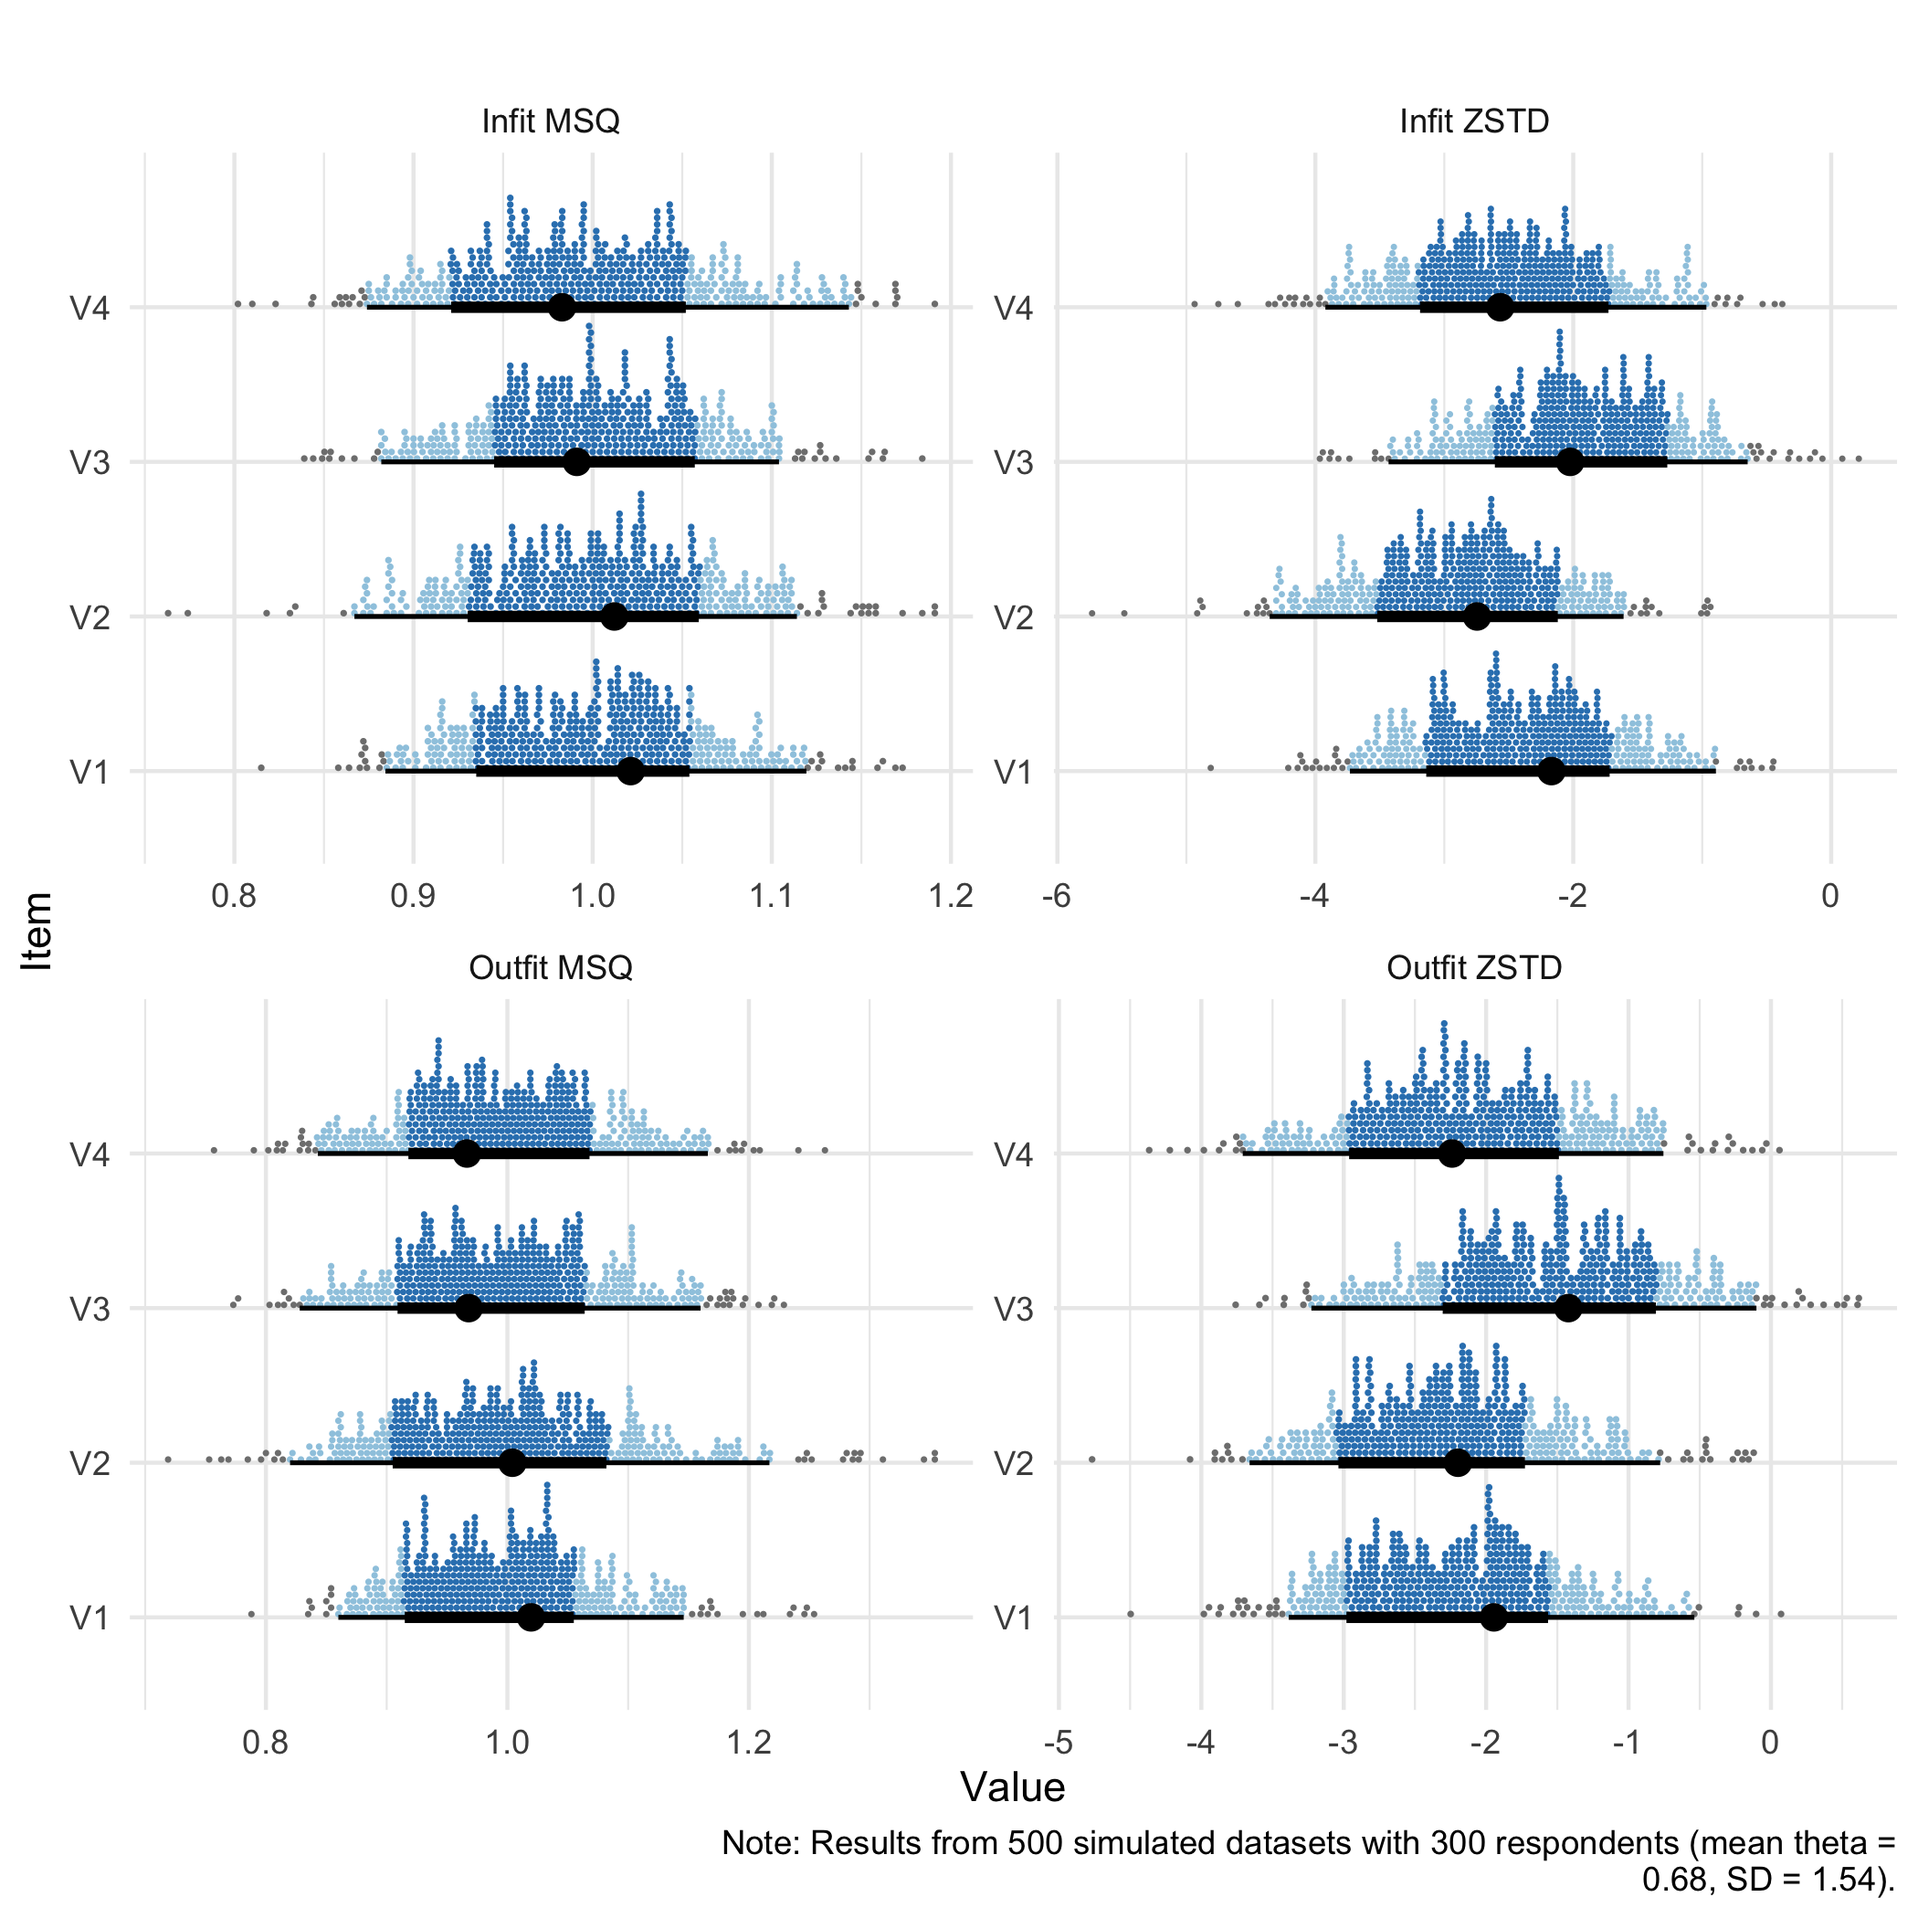
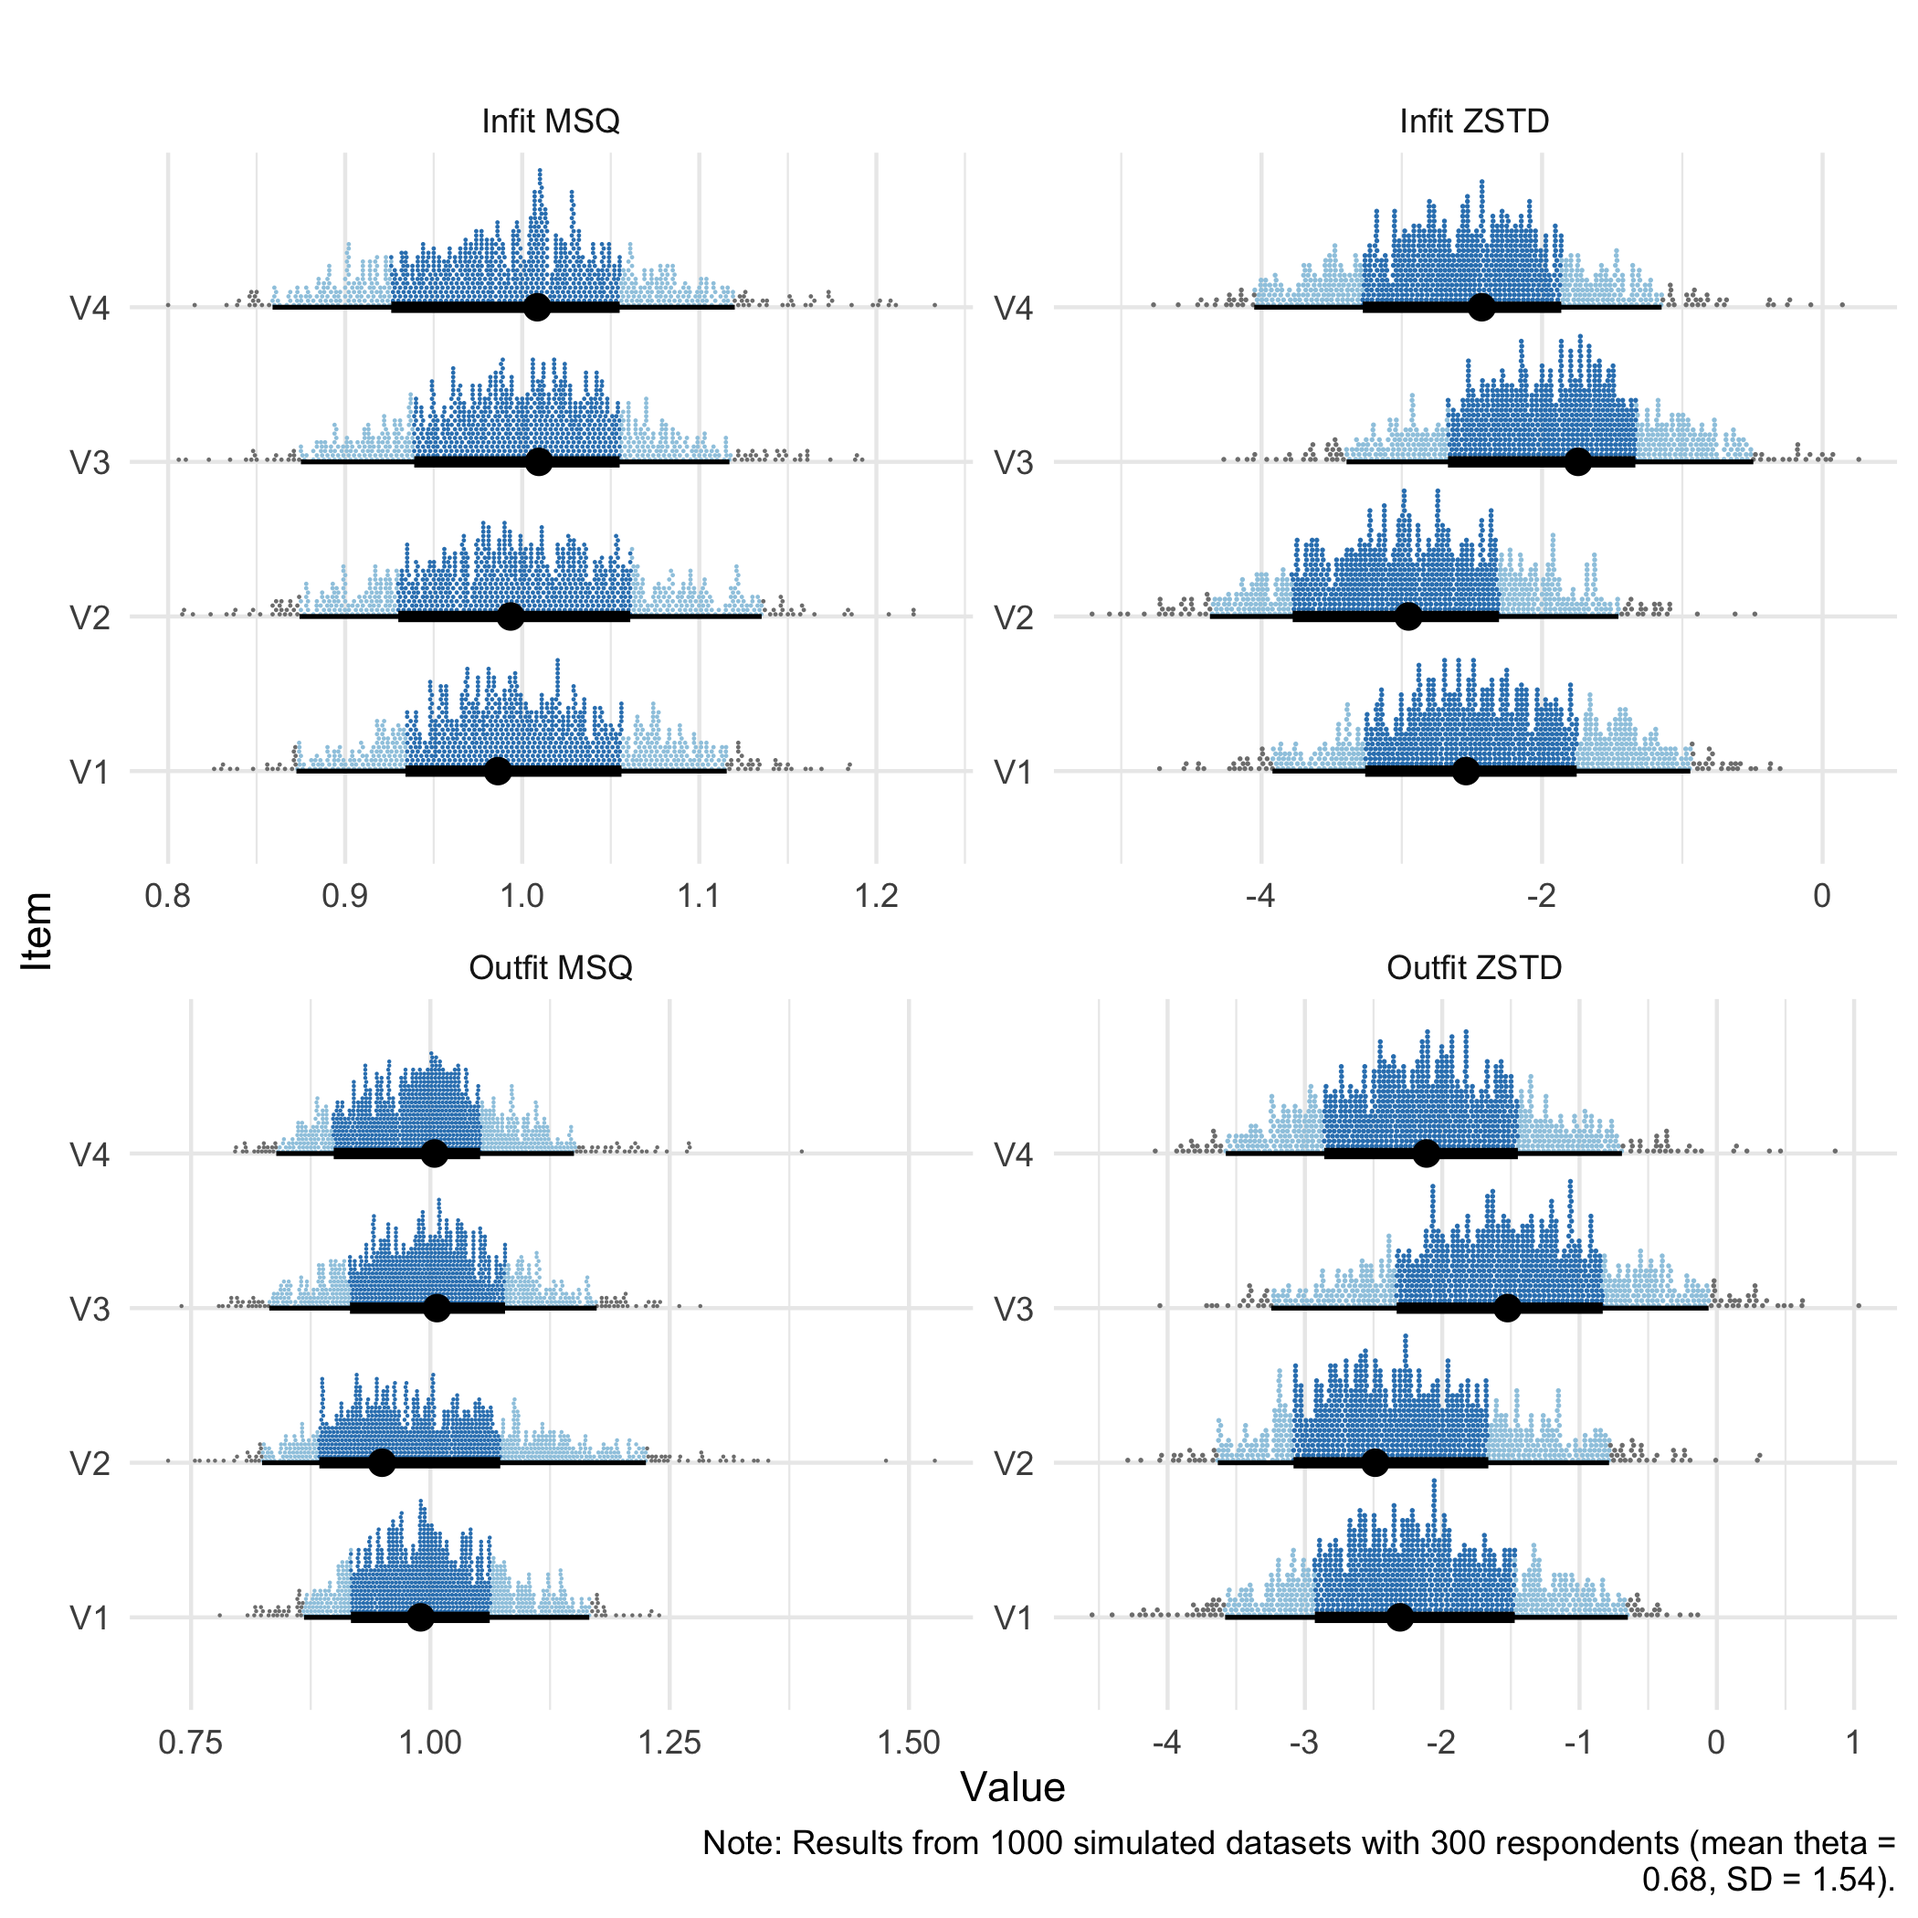
1000 iterations

diff --git a/docs/simcutoffs.html b/docs/simcutoffs.html
@@ -276,18 +276,18 @@ div.csl-indent {
 <details open="" class="code-fold"><summary>Code</summary><div class="sourceCode" id="cb3"><pre class="downlit sourceCode r code-with-copy"><code class="sourceCode R"><span><span class="fu">glimpse</span><span class="op">(</span><span class="va">res_cor</span><span class="op">)</span></span></code><button title="Copy to Clipboard" class="code-copy-button"><i class="bi"></i></button></pre></div>
 </details><div class="cell-output cell-output-stdout">
 <pre><code>List of 8
- $ results    :'data.frame':    500 obs. of  3 variables:
-  ..$ mean: num [1:500] -0.264 -0.267 -0.268 -0.256 -0.25 ...
-  ..$ max : num [1:500] -0.178 -0.177 -0.176 -0.198 -0.159 ...
-  ..$ diff: num [1:500] 0.0854 0.0901 0.0921 0.0583 0.0911 ...
+ $ results    :'data.frame':    1000 obs. of  3 variables:
+  ..$ mean: num [1:1000] -0.263 -0.269 -0.254 -0.268 -0.26 ...
+  ..$ max : num [1:1000] -0.214 -0.154 -0.184 -0.211 -0.233 ...
+  ..$ diff: num [1:1000] 0.0491 0.1153 0.0705 0.0572 0.0275 ...
  $ sample_n   : int 300
  $ sample_mean: num 0.684
  $ sample_sd  : num 1.54
- $ max_diff   : num 0.218
- $ sd_diff    : num 0.0343
- $ q95        : Named num 0.148
+ $ max_diff   : num 0.239
+ $ sd_diff    : num 0.0357
+ $ q95        : Named num 0.156
   ..- attr(*, "names")= chr "95%"
- $ q99        : Named num 0.173
+ $ q99        : Named num 0.19
   ..- attr(*, "names")= chr "99%"</code></pre>
 </div>
 </div>
@@ -337,7 +337,7 @@ div.csl-indent {
 <tfoot>
 <tr><td style="padding: 0; " colspan="100%"><span style="font-style: italic;">Note: </span></td></tr>
 <tr><td style="padding: 0; " colspan="100%">
-<sup></sup> Relative cut-off value (highlighted in red) is -0.054, which is 0.173 above the average correlation.</td></tr>
+<sup></sup> Relative cut-off value (highlighted in red) is -0.036, which is 0.19 above the average correlation.</td></tr>
 </tfoot>
 </table>
 </div>
@@ -355,7 +355,7 @@ div.csl-indent {
 <details open="" class="code-fold"><summary>Code</summary><div class="sourceCode" id="cb7"><pre class="downlit sourceCode r code-with-copy"><code class="sourceCode R"><span><span class="fu"><a href="https://rdrr.io/r/base/summary.html">summary</a></span><span class="op">(</span><span class="va">res_cor</span><span class="op">$</span><span class="va">results</span><span class="op">$</span><span class="va">diff</span><span class="op">)</span></span></code><button title="Copy to Clipboard" class="code-copy-button"><i class="bi"></i></button></pre></div>
 </details><div class="cell-output cell-output-stdout">
 <pre><code>   Min. 1st Qu.  Median    Mean 3rd Qu.    Max. 
-0.01205 0.06391 0.08530 0.08929 0.11115 0.21838 </code></pre>
+0.01416 0.06503 0.08584 0.09019 0.11034 0.23907 </code></pre>
 </div>
 </div>
 </section><section id="item-fit" class="level2" data-number="3"><h2 data-number="3" class="anchored" data-anchor-id="item-fit">
@@ -383,15 +383,15 @@ Note
 <details open="" class="code-fold"><summary>Code</summary><div class="sourceCode" id="cb10"><pre class="downlit sourceCode r code-with-copy"><code class="sourceCode R"><span><span class="va">itemfit_sim</span><span class="op">[[</span><span class="fl">1</span><span class="op">]</span><span class="op">]</span></span></code><button title="Copy to Clipboard" class="code-copy-button"><i class="bi"></i></button></pre></div>
 </details><div class="cell-output cell-output-stdout">
 <pre><code>  item outfit_msq infit_msq outfit_zstd infit_zstd
-1   V1      0.937     0.945      -2.790     -3.024
-2   V2      1.021     1.061      -2.093     -2.439
-3   V3      0.933     0.966      -2.083     -1.857
-4   V4      1.062     1.045      -1.329     -2.007</code></pre>
+1   V1      1.008     0.998      -2.244     -2.495
+2   V2      0.866     0.891      -3.628     -4.213
+3   V3      1.044     1.069      -1.212     -1.190
+4   V4      1.035     1.049      -1.827     -2.237</code></pre>
 </div>
 </div>
 <p>This object can in turn be used with three different functions. Most importantly, you can use it with <code><a href="https://rdrr.io/pkg/RISEkbmRasch/man/RIitemfitPCM.html">RIitemfitPCM()</a></code> to set cutoff values for both MSQ and ZSTD based on your sample size and item parameters. This uses the lowest and highest value from <em>all</em> items as cutoff for all items. This is not ideal, but was the easiest to implement. There will be “custom” cutoffs for every item in the near future.</p>
 <div class="cell">
-<details open="" class="code-fold"><summary>Code</summary><div class="sourceCode" id="cb12"><pre class="downlit sourceCode r code-with-copy"><code class="sourceCode R"><span><span class="fu"><a href="https://rdrr.io/pkg/RISEkbmRasch/man/RIitemfitPCM.html">RIitemfitPCM</a></span><span class="op">(</span><span class="va">pcmdat2</span>,simcut <span class="op">=</span> <span class="cn">TRUE</span>, gf <span class="op">=</span> <span class="va">itemfit_sim</span><span class="op">)</span></span></code><button title="Copy to Clipboard" class="code-copy-button"><i class="bi"></i></button></pre></div>
+<details open="" class="code-fold"><summary>Code</summary><div class="sourceCode" id="cb12"><pre class="downlit sourceCode r code-with-copy"><code class="sourceCode R"><span><span class="fu"><a href="https://rdrr.io/pkg/RISEkbmRasch/man/RIitemfitPCM.html">RIitemfitPCM</a></span><span class="op">(</span><span class="va">pcmdat2</span>, simcut <span class="op">=</span> <span class="cn">TRUE</span>, gf <span class="op">=</span> <span class="va">itemfit_sim</span><span class="op">)</span></span></code><button title="Copy to Clipboard" class="code-copy-button"><i class="bi"></i></button></pre></div>
 </details><div class="cell-output-display">
 <table data-quarto-disable-processing="true" style="width:65%; font-size: 15px; width: auto !important;  font-family: Lato; margin-left: auto; margin-right: auto; margin-left: auto; margin-right: auto;border-bottom: 0;" class="table table-striped table-hover lightable-classic table">
 <thead><tr>
@@ -444,9 +444,9 @@ Note
 <details open="" class="code-fold"><summary>Code</summary><div class="sourceCode" id="cb13"><pre class="downlit sourceCode r code-with-copy"><code class="sourceCode R"><span><span class="fu"><a href="https://rdrr.io/pkg/RISEkbmRasch/man/RIgetfitLoHi.html">RIgetfitLoHi</a></span><span class="op">(</span><span class="va">itemfit_sim</span><span class="op">)</span></span></code><button title="Copy to Clipboard" class="code-copy-button"><i class="bi"></i></button></pre></div>
 </details><div class="cell-output cell-output-stdout">
 <pre><code>  max_infit_msq min_infit_msq max_outfit_msq min_outfit_msq max_infit_zstd
-1         1.191         0.763          1.354          0.719          0.214
+1         1.233           0.8          1.527          0.726          0.258
   min_infit_zstd max_outfit_zstd min_outfit_zstd
-1         -5.731           0.617          -4.767</code></pre>
+1         -5.208           1.034           -4.55</code></pre>
 </div>
 </div>
 <p>If you want to see a table with the individual item fit upper/lower cutoffs for all metrics, the function <code><a href="https://rdrr.io/pkg/RISEkbmRasch/man/RIgetfitTable.html">RIgetfitTable()</a></code> is used with the output object from <code><a href="https://rdrr.io/pkg/RISEkbmRasch/man/RIgetfit.html">RIgetfit()</a></code> as input.</p>
@@ -464,37 +464,37 @@ Note
 <tbody>
 <tr>
 <td style="text-align:left;"> V1 </td>
-   <td style="text-align:left;"> [0.815, 1.173] </td>
-   <td style="text-align:left;"> [0.788, 1.254] </td>
-   <td style="text-align:left;"> [-4.811, -0.448] </td>
-   <td style="text-align:left;"> [-4.496, 0.071] </td>
+   <td style="text-align:left;"> [0.826, 1.185] </td>
+   <td style="text-align:left;"> [0.78, 1.239] </td>
+   <td style="text-align:left;"> [-4.727, -0.303] </td>
+   <td style="text-align:left;"> [-4.55, -0.139] </td>
   </tr>
 <tr>
 <td style="text-align:left;"> V2 </td>
-   <td style="text-align:left;"> [0.763, 1.191] </td>
-   <td style="text-align:left;"> [0.719, 1.354] </td>
-   <td style="text-align:left;"> [-5.731, -0.936] </td>
-   <td style="text-align:left;"> [-4.767, -0.121] </td>
+   <td style="text-align:left;"> [0.808, 1.221] </td>
+   <td style="text-align:left;"> [0.726, 1.527] </td>
+   <td style="text-align:left;"> [-5.208, -0.483] </td>
+   <td style="text-align:left;"> [-4.29, 0.313] </td>
   </tr>
 <tr>
 <td style="text-align:left;"> V3 </td>
-   <td style="text-align:left;"> [0.839, 1.184] </td>
-   <td style="text-align:left;"> [0.773, 1.229] </td>
-   <td style="text-align:left;"> [-3.965, 0.214] </td>
-   <td style="text-align:left;"> [-3.759, 0.617] </td>
+   <td style="text-align:left;"> [0.806, 1.192] </td>
+   <td style="text-align:left;"> [0.74, 1.282] </td>
+   <td style="text-align:left;"> [-4.269, 0.258] </td>
+   <td style="text-align:left;"> [-4.056, 1.034] </td>
   </tr>
 <tr>
 <td style="text-align:left;"> V4 </td>
-   <td style="text-align:left;"> [0.802, 1.191] </td>
-   <td style="text-align:left;"> [0.757, 1.263] </td>
-   <td style="text-align:left;"> [-4.936, -0.379] </td>
-   <td style="text-align:left;"> [-4.366, 0.06] </td>
+   <td style="text-align:left;"> [0.8, 1.233] </td>
+   <td style="text-align:left;"> [0.796, 1.388] </td>
+   <td style="text-align:left;"> [-4.77, 0.141] </td>
+   <td style="text-align:left;"> [-4.09, 0.862] </td>
   </tr>
 </tbody>
 <tfoot>
 <tr><td style="padding: 0; " colspan="100%"><span style="font-style: italic;">Note: </span></td></tr>
 <tr><td style="padding: 0; " colspan="100%">
-<sup></sup> Results from 500 simulated datasets with 300 respondents (mean theta = 0.68, SD = 1.54).</td></tr>
+<sup></sup> Results from 1000 simulated datasets with 300 respondents (mean theta = 0.68, SD = 1.54).</td></tr>
 </tfoot>
 </table>
 </div>
@@ -1177,7 +1177,7 @@ window.document.addEventListener("DOMContentLoaded", function (event) {
 <span id="cb19-108"><a href="#cb19-108" aria-hidden="true" tabindex="-1"></a>for all items. This is not ideal, but was the easiest to implement. There will be "custom" cutoffs for every item in the near future.</span>
 <span id="cb19-109"><a href="#cb19-109" aria-hidden="true" tabindex="-1"></a></span>
 <span id="cb19-112"><a href="#cb19-112" aria-hidden="true" tabindex="-1"></a><span class="in">```{r}</span></span>
-<span id="cb19-113"><a href="#cb19-113" aria-hidden="true" tabindex="-1"></a><span class="fu">RIitemfitPCM</span>(pcmdat2,<span class="at">simcut =</span> <span class="cn">TRUE</span>, <span class="at">gf =</span> itemfit_sim)</span>
+<span id="cb19-113"><a href="#cb19-113" aria-hidden="true" tabindex="-1"></a><span class="fu">RIitemfitPCM</span>(pcmdat2, <span class="at">simcut =</span> <span class="cn">TRUE</span>, <span class="at">gf =</span> itemfit_sim)</span>
 <span id="cb19-114"><a href="#cb19-114" aria-hidden="true" tabindex="-1"></a><span class="in">```</span></span>
 <span id="cb19-115"><a href="#cb19-115" aria-hidden="true" tabindex="-1"></a></span>
 <span id="cb19-116"><a href="#cb19-116" aria-hidden="true" tabindex="-1"></a>All items seem to fit the Rasch model quite well. Values crossing the cutoff thresholds would be colorized red. The cutoff values used can be shown with</span>
